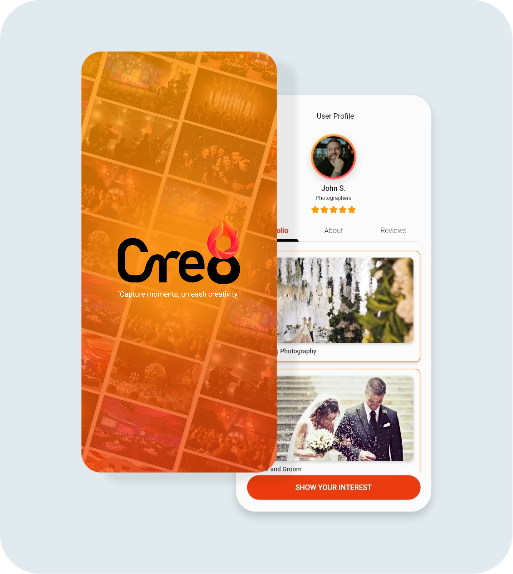
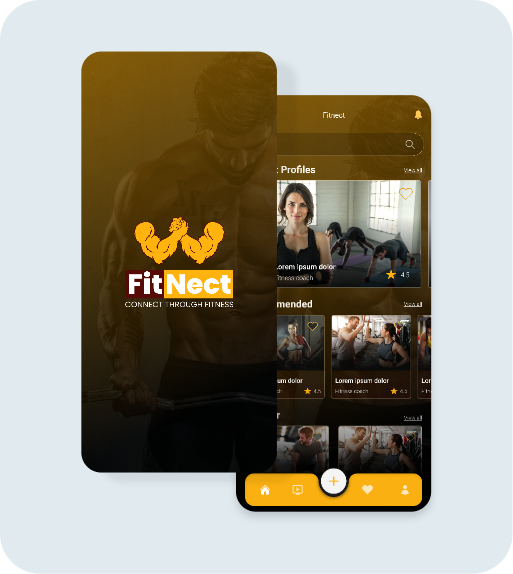
up

diff --git a/fitnect.php b/fitnect.php
@@ -24,15 +24,15 @@
 				<div class="row align-items-center">
 					<div class="col-md-6">
 						<div class="lftimg">
-							<img src="assets/images/cret/lgo.png" alt="">
+							<img src="assets/images/fitnect/lgo.png" alt="">
 						</div>
-						<h1 class="main-heading">Lorem ipsum dolor sit amet consectetur<span></span></h1>
-						<p>Lorem ipsum dolor sit amet consectetur adipiscing elit odio, mattis quam tortor taciti aenean luctus nullam enim, dui praesent ad dapibus tempus natoque a. Rhoncus praesent massa torquent malesuada maecenas arcu curae, porta pulvinar potenti at mus sem, vel purus proin eleifend nisi dictum. Lorem ipsum dolor sit amet consectetur.
+						<h1 class="main-heading">Fitness Influencers<span></span></h1>
+						<p>FitNect is the ultimate platform for fitness enthusiasts and influencers to connect, inspire, and transform lives through personalized video calls and local meetups.
 						</p>
 					</div>
 					<div class="col-md-6">
 						<div class="image">
-							<img src="assets/images/cret/bnrimg.png" alt="">
+							<img src="assets/images/fitnect/bnrimg.png" alt="">
 						</div>
 					</div>
 				</div>
@@ -43,7 +43,7 @@
 				<div class="row">
 					<div class="col-md-12">
 						<div class="image">
-							<img src="assets/images/cret/mobimg.png" alt="">
+							<img src="assets/images/fitnect/mobimg.png" alt="">
 						</div>
 					</div>
 				</div>
@@ -56,13 +56,13 @@
 					
 					<div class="col-md-6">
 						<div class="image">
-							<img src="assets/images/cret/cnclsnimg.png" alt="">
+							<img src="assets/images/fitnect/cnclsnimg.png" alt="">
 						</div>
 					</div>
 					<div class="col-md-6">
 						<div class="cnt">
 							<h3 class="main-heading"><span class="drkorngclr">Download</span> Our Mobile Application</h3>
-							<p>Lorem ipsum dolor sit amet consectetur adipiscing elit odio, mattis quam tortor taciti aenean luctus nullam enim, dui praesent ad dapibus tempus natoque a. Rhoncus praesent massa torquent malesuada maecenas arcu curae, porta pulvinar potenti at mus sem, vel purus proin eleifend nisi dictum. Lorem ipsum dolor sit amet consectetur.
+							<p>Engage in direct, real-time one-on-one interactions with top fitness influencers, gaining personalized guidance and support tailored to your fitness goals. Receive motivational encouragement from certified personal trainers who help you stay on track and push beyond your limits. Enjoy a user-friendly experience with a sleek, intuitive interface that makes scheduling and communication simple and efficient, ensuring you get the most out of every training session.
 							</p>
 							<ul >
 								<li><a href="<?php echo $path;?>contact-us.php"><img src="assets/images/googleplay.png"></a></li>

diff --git a/ginge.php b/ginge.php
@@ -26,8 +26,8 @@
 						<div class="lftimg">
 							<img src="assets/images/ginge/lgo.png" alt="">
 						</div>
-						<h1 class="main-heading">Lorem ipsum dolor sit amet consectetur<span></span></h1>
-						<p>Lorem ipsum dolor sit amet consectetur adipiscing elit odio, mattis quam tortor taciti aenean luctus nullam enim, dui praesent ad dapibus tempus natoque a. Rhoncus praesent massa torquent malesuada maecenas arcu curae, porta pulvinar potenti at mus sem, vel purus proin eleifend nisi dictum. Lorem ipsum dolor sit amet consectetur.
+						<h1 class="main-heading">Leave The Recipe Books Behind with Ginge<span></span></h1>
+						<p>No more sifting through countless recipes only to find you’re always one thing short on cocktail night. Ginge references what you have, and can tell you what you already can make, or help you explore!
 						</p>
 					</div>
 					<div class="col-md-6">
@@ -62,7 +62,7 @@
 					<div class="col-md-6">
 						<div class="cnt">
 							<h3 class="main-heading"><span class="prplclr">Download</span> Our Mobile Application</h3>
-							<p>Lorem ipsum dolor sit amet consectetur adipiscing elit odio, mattis quam tortor taciti aenean luctus nullam enim, dui praesent ad dapibus tempus natoque a. Rhoncus praesent massa torquent malesuada maecenas arcu curae, porta pulvinar potenti at mus sem, vel purus proin eleifend nisi dictum. Lorem ipsum dolor sit amet consectetur.
+							<p>This revolutionary mobile app helps you make delicious cocktails utilizing a first of its kind specialized AI, becoming your bar assistant who is not only there to help you find what to make based on your tastes, but also manages your inventory, and is there to help answer questions and shed some light into the exciting world of cocktails!
 							</p>
 							<ul >
 								<li><a href="<?php echo $path;?>contact-us.php"><img src="assets/images/googleplay.png"></a></li>

diff --git a/cyerbi.php b/cyerbi.php
@@ -62,7 +62,9 @@
 					<div class="col-md-6">
 						<div class="cnt">
 							<h3 class="main-heading"><span class="pknclr">Download</span> Our Mobile Application</h3>
-							<p>Lorem ipsum dolor sit amet consectetur adipiscing elit odio, mattis quam tortor taciti aenean luctus nullam enim, dui praesent ad dapibus tempus natoque a. Rhoncus praesent massa torquent malesuada maecenas arcu curae, porta pulvinar potenti at mus sem, vel purus proin eleifend nisi dictum. Lorem ipsum dolor sit amet consectetur.
+							<p>Welcome to Cyerbi, where we believe fitness is more than just a personal routine. To us, it's a shared experience. Our mission is to create an all-round fitness platform that helps you track your progress and connects you with a lively community of like-minded people and dedicated trainers.
+							<br></br>
+							We know the challenges of maintaining motivation and finding support along your fitness journey. That’s why we’ve designed our platform to empower you through features that facilitate social connections, support collaboration, and provide personalized guidance.
 							</p>
 							<ul >
 								<li><a href="<?php echo $path;?>contact-us.php"><img src="assets/images/googleplay.png"></a></li>

diff --git a/fittedup.php b/fittedup.php
@@ -62,7 +62,7 @@
 					<div class="col-md-6">
 						<div class="cnt">
 							<h3 class="main-heading"><span class="grnclr">Download</span> Our Mobile Application</h3>
-							<p>Lorem ipsum dolor sit amet consectetur adipiscing elit odio, mattis quam tortor taciti aenean luctus nullam enim, dui praesent ad dapibus tempus natoque a. Rhoncus praesent massa torquent malesuada maecenas arcu curae, porta pulvinar potenti at mus sem, vel purus proin eleifend nisi dictum. Lorem ipsum dolor sit amet consectetur.
+							<p>Easily upload images of clothing items you're considering purchasing or outfits you want to showcase. Select your audience whether it's just friends or the public and receive votes on whether you should buy the items or not. Get ratings for your outfits on a scale from 1 to 10 to gauge how well they are received. Mark your top outfits as favorites and refer back to them for inspiration whenever you need fresh ideas or style guidance.
 							</p>
 							<ul >
 								<li><a href="<?php echo $path;?>contact-us.php"><img src="assets/images/googleplay.png"></a></li>

diff --git a/athlinc.php b/athlinc.php
@@ -61,7 +61,7 @@
 					<div class="col-md-6">
 						<div class="cnt">
 							<h3 class="main-heading"><span class="bluclr">Download</span> Our Mobile Application</h3>
-							<p>Lorem ipsum dolor sit amet consectetur adipiscing elit odio, mattis quam tortor taciti aenean luctus nullam enim, dui praesent ad dapibus tempus natoque a. Rhoncus praesent massa torquent malesuada maecenas arcu curae, porta pulvinar potenti at mus sem, vel purus proin eleifend nisi dictum. Lorem ipsum dolor sit amet consectetur.
+							<p>At Athlinc, we are passionate about connecting aspiring athletes with the opportunities they deserve. Our mission is to simplify the athletic recruiting process for athletes, coaches, and recruiters alike with our innovative mobile app that is designed to bridge the gap between potential and opportunity.
 							</p>
 							<ul >
 								<li><a href="<?php echo $path;?>contact-us.php"><img src="assets/images/googleplay.png"></a></li>

diff --git a/contact-us.php b/contact-us.php
@@ -30,9 +30,9 @@
 							<li><a href="<?php echo $phone;?>"><i class="fa-solid fa-phone"></i> <?php echo $phone;?></a></li>
 						</ul>
 						<ul class="socl">
-							<li><a href="https://pk.linkedin.com/company/sands-tech"><i class="fa-brands fa-facebook"></i></a></li>
-							<li><a href="https://www.instagram.com/sands_tech/"><i class="fa-brands fa-instagram"></i></a></li>
-							<li><a href="https://pk.linkedin.com/company/sands-tech"><i class="fa-brands fa-linkedin-in"></i></a></li>
+							<li><a href="https://www.facebook.com/sandstech.org/" target="_blank"><i class="fa-brands fa-facebook"></i></a></li>
+							<li><a href="https://www.instagram.com/sands_tech/" target="_blank"><i class="fa-brands fa-instagram"></i></a></li>
+							<li><a href="https://pk.linkedin.com/company/sands-tech" target="_blank"><i class="fa-brands fa-linkedin-in"></i></a></li>
 						</ul>
 					</div>
 					<div class="col-md-6">

diff --git a/about-us.php b/about-us.php
@@ -42,7 +42,7 @@
 				<div class="row">
 					<div class="col-md-12">
 						<div class="head">
-							<h1 class="main-heading">Helping Brands <span>Succeed</span> - Since 2021</h1>
+							<h1 class="main-heading">Helping Brands <span>Succeed</span> <br> Since 2021</h1>
 							<p>SANDS Tech has been in the market for over 2 years, providing top-notch app development, website development, and digital marketing services. We have helped hundreds of brands make a mark in the digital world - let’s work on yours.</p>
 						</div>
 					</div>

diff --git a/portfolio.php b/portfolio.php
@@ -49,7 +49,7 @@
 					</div>
 					<div class="col-md-4 col-sm-6">
 						<div class="mainwr">
-							<a href="<?php echo $path;?>cret.php">
+							<a href="<?php echo $path;?>fitnect.php">
 								<img class="lazy " data-src="<?php echo $basesurl;?>images/portfolio/img3.png" alt="" src="<?php echo $basesurl;?>images/portfolio/img3.png" data-loaded="true">
 							</a>
 						</div>
